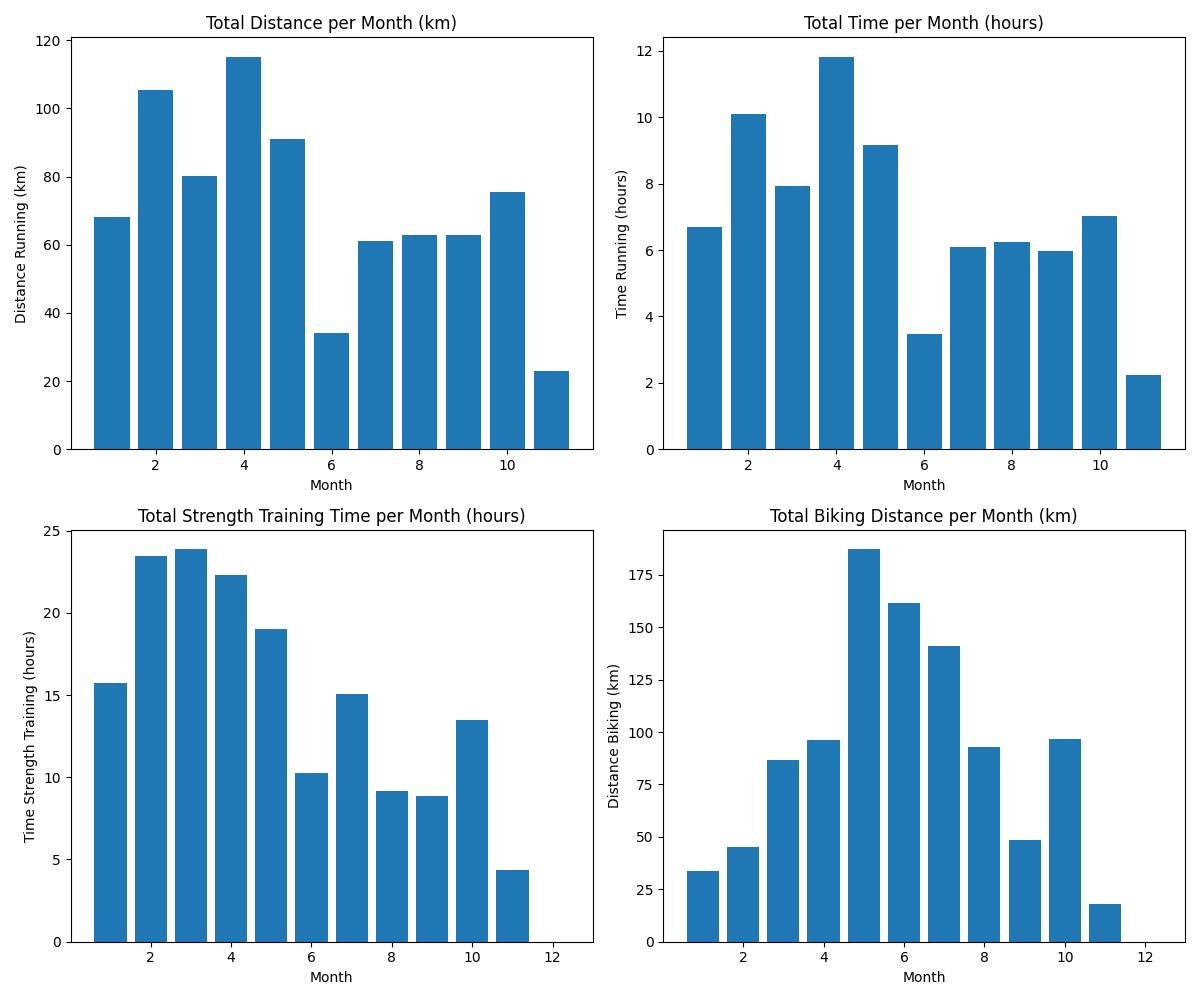
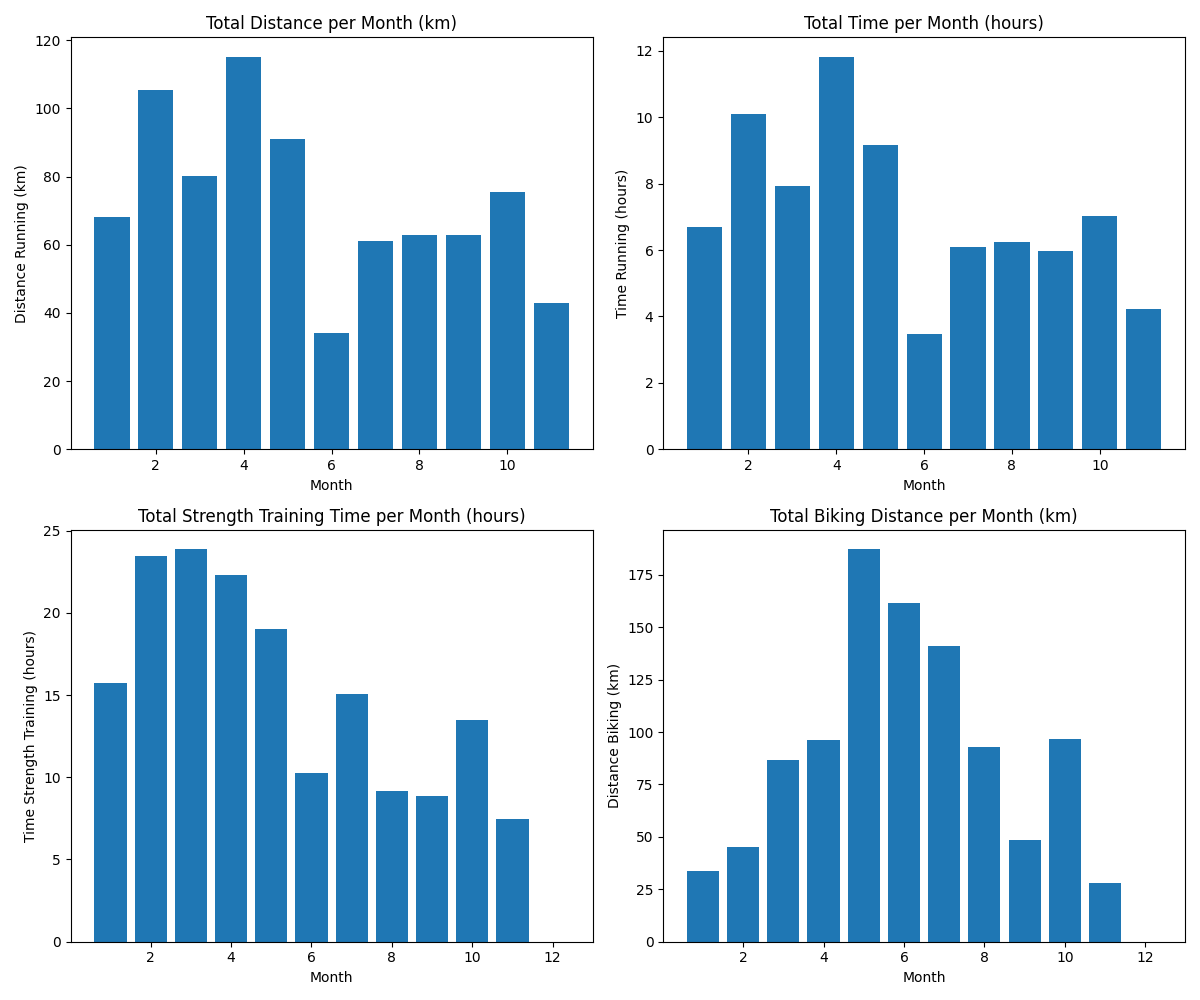
sport update 16.11

diff --git a/Sport/Sport_2026_report.md b/Sport/Sport_2026_report.md
@@ -3,28 +3,28 @@
 ## Sport Counts
 | type   |   count |
 |:-------|--------:|
-| F      |     200 |
+| F      |     204 |
 | S      |      18 |
 | L      |      13 |
 | K      |      10 |
 | B      |       7 |
 | C      |       3 |
-| Total  |     251 |
+| Total  |     255 |
 
 ## Summary
-- **Total distance run on treadmill:** 704.66 km
+- **Total distance run on treadmill:** 724.66 km
 - **Total distance run outside:** 74.41 km
-- **Total distance cycled:** 1006.81 km
+- **Total distance cycled:** 1016.81 km
 - **Total distance swimming:** 45.75 km
 - **Total distance skating:** 103.51 km
-- **Total number of sets (strength training):** 9,930
-- **Average number of sets (strength training):** 49.16
+- **Total number of sets (strength training):** 10,114
+- **Average number of sets (strength training):** 49.10
 - **Total number of climbs:** 17
 - **Average number of climbs:** 5.67
 
 ## Average Speeds
 - **Treadmill running:** 10.13 km/h
 - **Outside running:** 10.49 km/h
-- **Cycling:** 21.09 km/h
+- **Cycling:** 21.06 km/h
 - **Swimming:** 2.61 km/h
 - **Inline skating:** 8.94 km/h
